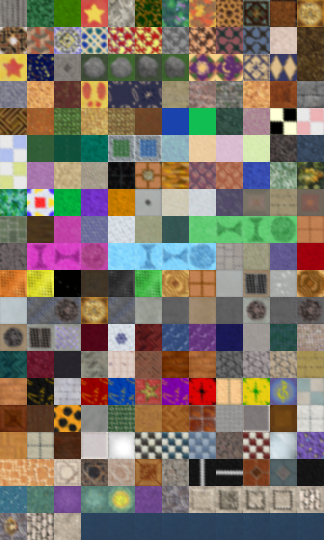
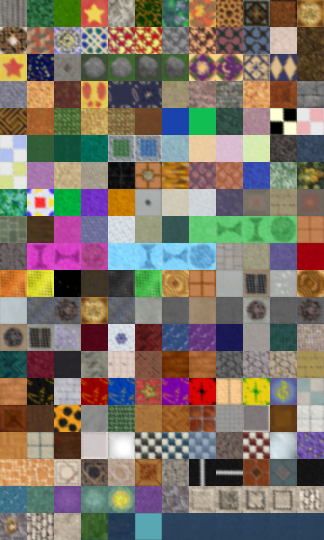
- combined sprites into one sheet - separating walls/floors into stories

Changed region(s): [[0.4012, 0.9481, 0.5247, 1.0], [0.2469, 0.9481, 0.3395, 1.0]]

diff --git a/scripts/class.js b/scripts/class.js
@@ -5,14 +5,14 @@ class LotObject{
         this.objects = lotData.house.objects;
         this.lotSize = parseInt(lotData.house.size);
         
-        // Parse floor
-        this.floors = this.parseFloor(lotData.house.world.floors.floor);
-        this.floorCount = this.getStoryCount(this.floors);
-        console.log(this.floors)
+        // Parse floors/walls
+        this.floorData = this.parseFloor(lotData.house.world.floors.floor);
+        this.wallData = this.parseWall(lotData.house.world.walls.wall);
+        
+        // Separate floors
+        this.floorCount = this.getStoryCount(this.floorData, this.wallData);
+        this.separateFloors();
 
-        // Parse wall
-        this.walls = this.parseWall(lotData.house.world.walls.wall);
-        console.log(this.walls);
 
         this.lotRenderer = new LotRenderer(this);
         // Next, build compressed list of every wall coordinate pair, floor coordinate and id, object coordinate and id
@@ -26,32 +26,51 @@ class LotObject{
         return floorObjects;
     }
 
-    getStoryCount(floors) {
-
-        let maxFloor = 0;
-        for (let i = 0; i < floors.length; i++) if (floors[i].level > maxFloor) maxFloor = floors[i].level;
-        return maxFloor + 1;
-    }
-    //#endregion
-
-    //#region Walls
     parseWall(wallList) {
 
         let wallObjects = new Array();
+        if (!Array.isArray(wallList)) return wallObjects;
         for (let i = 0; i < wallList.length; i++) wallObjects.push(new Wall(wallList[i]));
         return wallObjects;
     }
-    //#endregion
+
+    getStoryCount(floors, walls) {
+
+        let maxFloor = 0;
+        for (let i = 0; i < floors.length; i++) if (floors[i].level > maxFloor) maxFloor = floors[i].level;
+        for (let i = 0; i < walls.length; i++) if (walls[i].level > maxFloor) maxFloor = walls[i].level;
+        return maxFloor + 1;
+    }
+
+    separateFloors() {
+
+        this.floors = new Array(this.floorCount).fill().map(() => Array());
+        this.walls = new Array(this.floorCount).fill().map(() => Array());
+
+        for (let i = 0; i < this.floorData.length; i++) {
+
+            let floor = this.floorData[i];
+            this.floors[floor.level].push(floor);
+        }
+
+        for (let i = 0; i < this.wallData.length; i++) {
+
+            let wall = this.wallData[i];
+            this.walls[wall.level].push(wall);
+        }
+    }
 }
 
 class LotRenderer{
     constructor(lotObject) {
 
+        // TODO: Create array of canvi for each floor
+
         // Static variables
         this.canvas = document.getElementById("lot-canvas");
         this.ctx = this.canvas.getContext("2d");
 
-        this.tileSize = 24;
+        this.tileSize = 27;
         this.sourceTileSize = 27;
 
         // Buildable variables
@@ -60,9 +79,12 @@ class LotRenderer{
         // Settable variables
         this.lotObject = lotObject;
 
+        // Draw lot
+        console.time("Drawing Lot");
         this.setCanvasSize();
+        this.drawEnvironment();
         this.drawFloors();
-        //this.testSpriteSheet();
+        console.timeEnd("Drawing Lot");
     }
 
     //#region Draw functions
@@ -72,14 +94,26 @@ class LotRenderer{
         this.canvas.height = this.tileSize * this.lotObject.lotSize;
     }
 
+    drawEnvironment() {
+
+        for (let i = 0; i < this.lotObject.lotSize; i++) {
+            for (let j = 0; j < this.lotObject.lotSize; j++) {
+
+                let drawX = i * this.tileSize;
+                let drawY = j * this.tileSize;
+
+                this.ctx.drawImage(this.tileList[231], drawX, drawY, this.tileSize, this.tileSize);
+            }
+        }
+    }
+
     drawFloors() {
 
-        for (let i = 0; i < this.lotObject.floors.length; i++) {
+        for (let i = 0; i < this.lotObject.floors[0].length; i++) {
             
-            let floor = this.lotObject.floors[i];
+            let floor = this.lotObject.floors[0][i];
 
             let floorSpriteIndex = FLOOR_KVP[floor.value];
-            console.log(floor.value, floorSpriteIndex);
             let drawX = floor.x * this.tileSize;
             let drawY = floor.y * this.tileSize;
 

diff --git a/scripts/definitions.js b/scripts/definitions.js
@@ -23,6 +23,11 @@ const FLOOR_KVP = {
     306: 108,  421: 118,  411: 128,  345: 138,  427: 148,  397: 158,  343: 168,  423: 178,  24: 188,   295: 198,  281: 208,  
     273: 109,  419: 119,  384: 129,  386: 139,  359: 149,  378: 159,  264: 169,  408: 179,  15: 189,   296: 199,  21: 209,
     377: 230,
+
+    // Environment
+    65533: 231, // Grass
+    65534: 232, // Lake
+    65535: 233, // Pool
 };
 //#endregion
 

diff --git a/styles/style.css b/styles/style.css
@@ -13,6 +13,7 @@ body {
 
 * {
     border: 3px solid black;
+    background-color: seagreen;
 }
 
 .control-bar-container {
